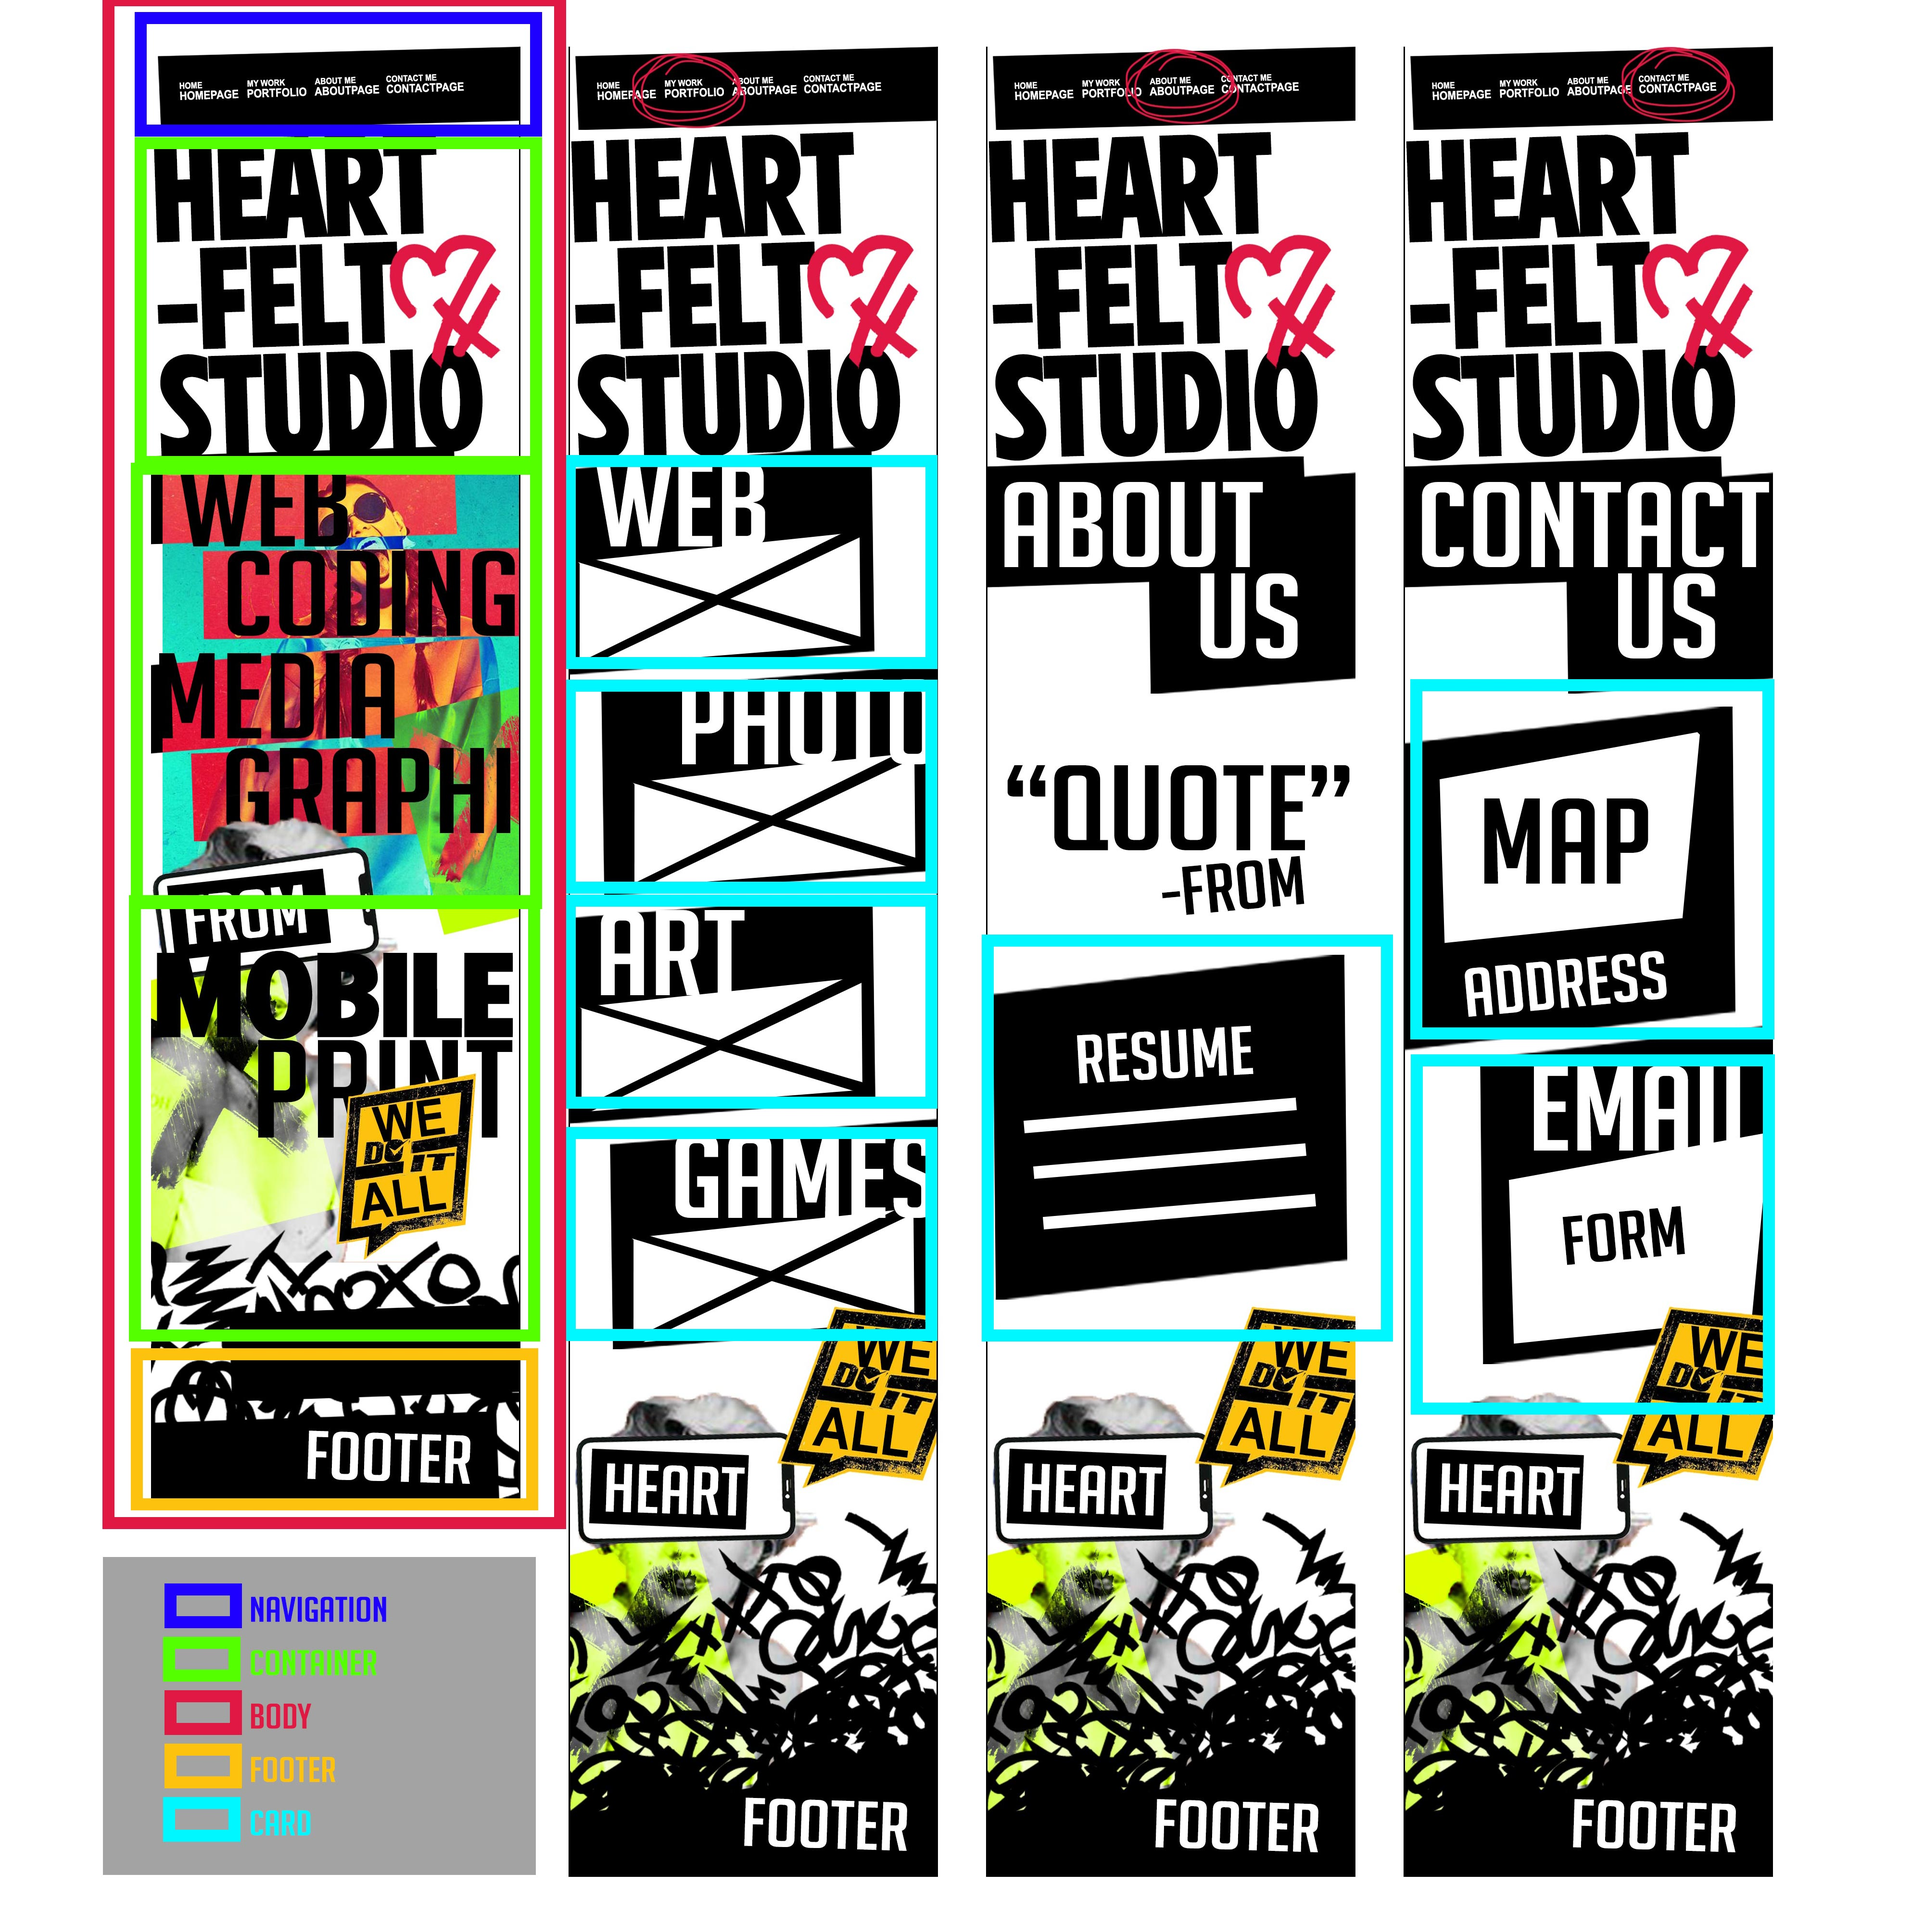
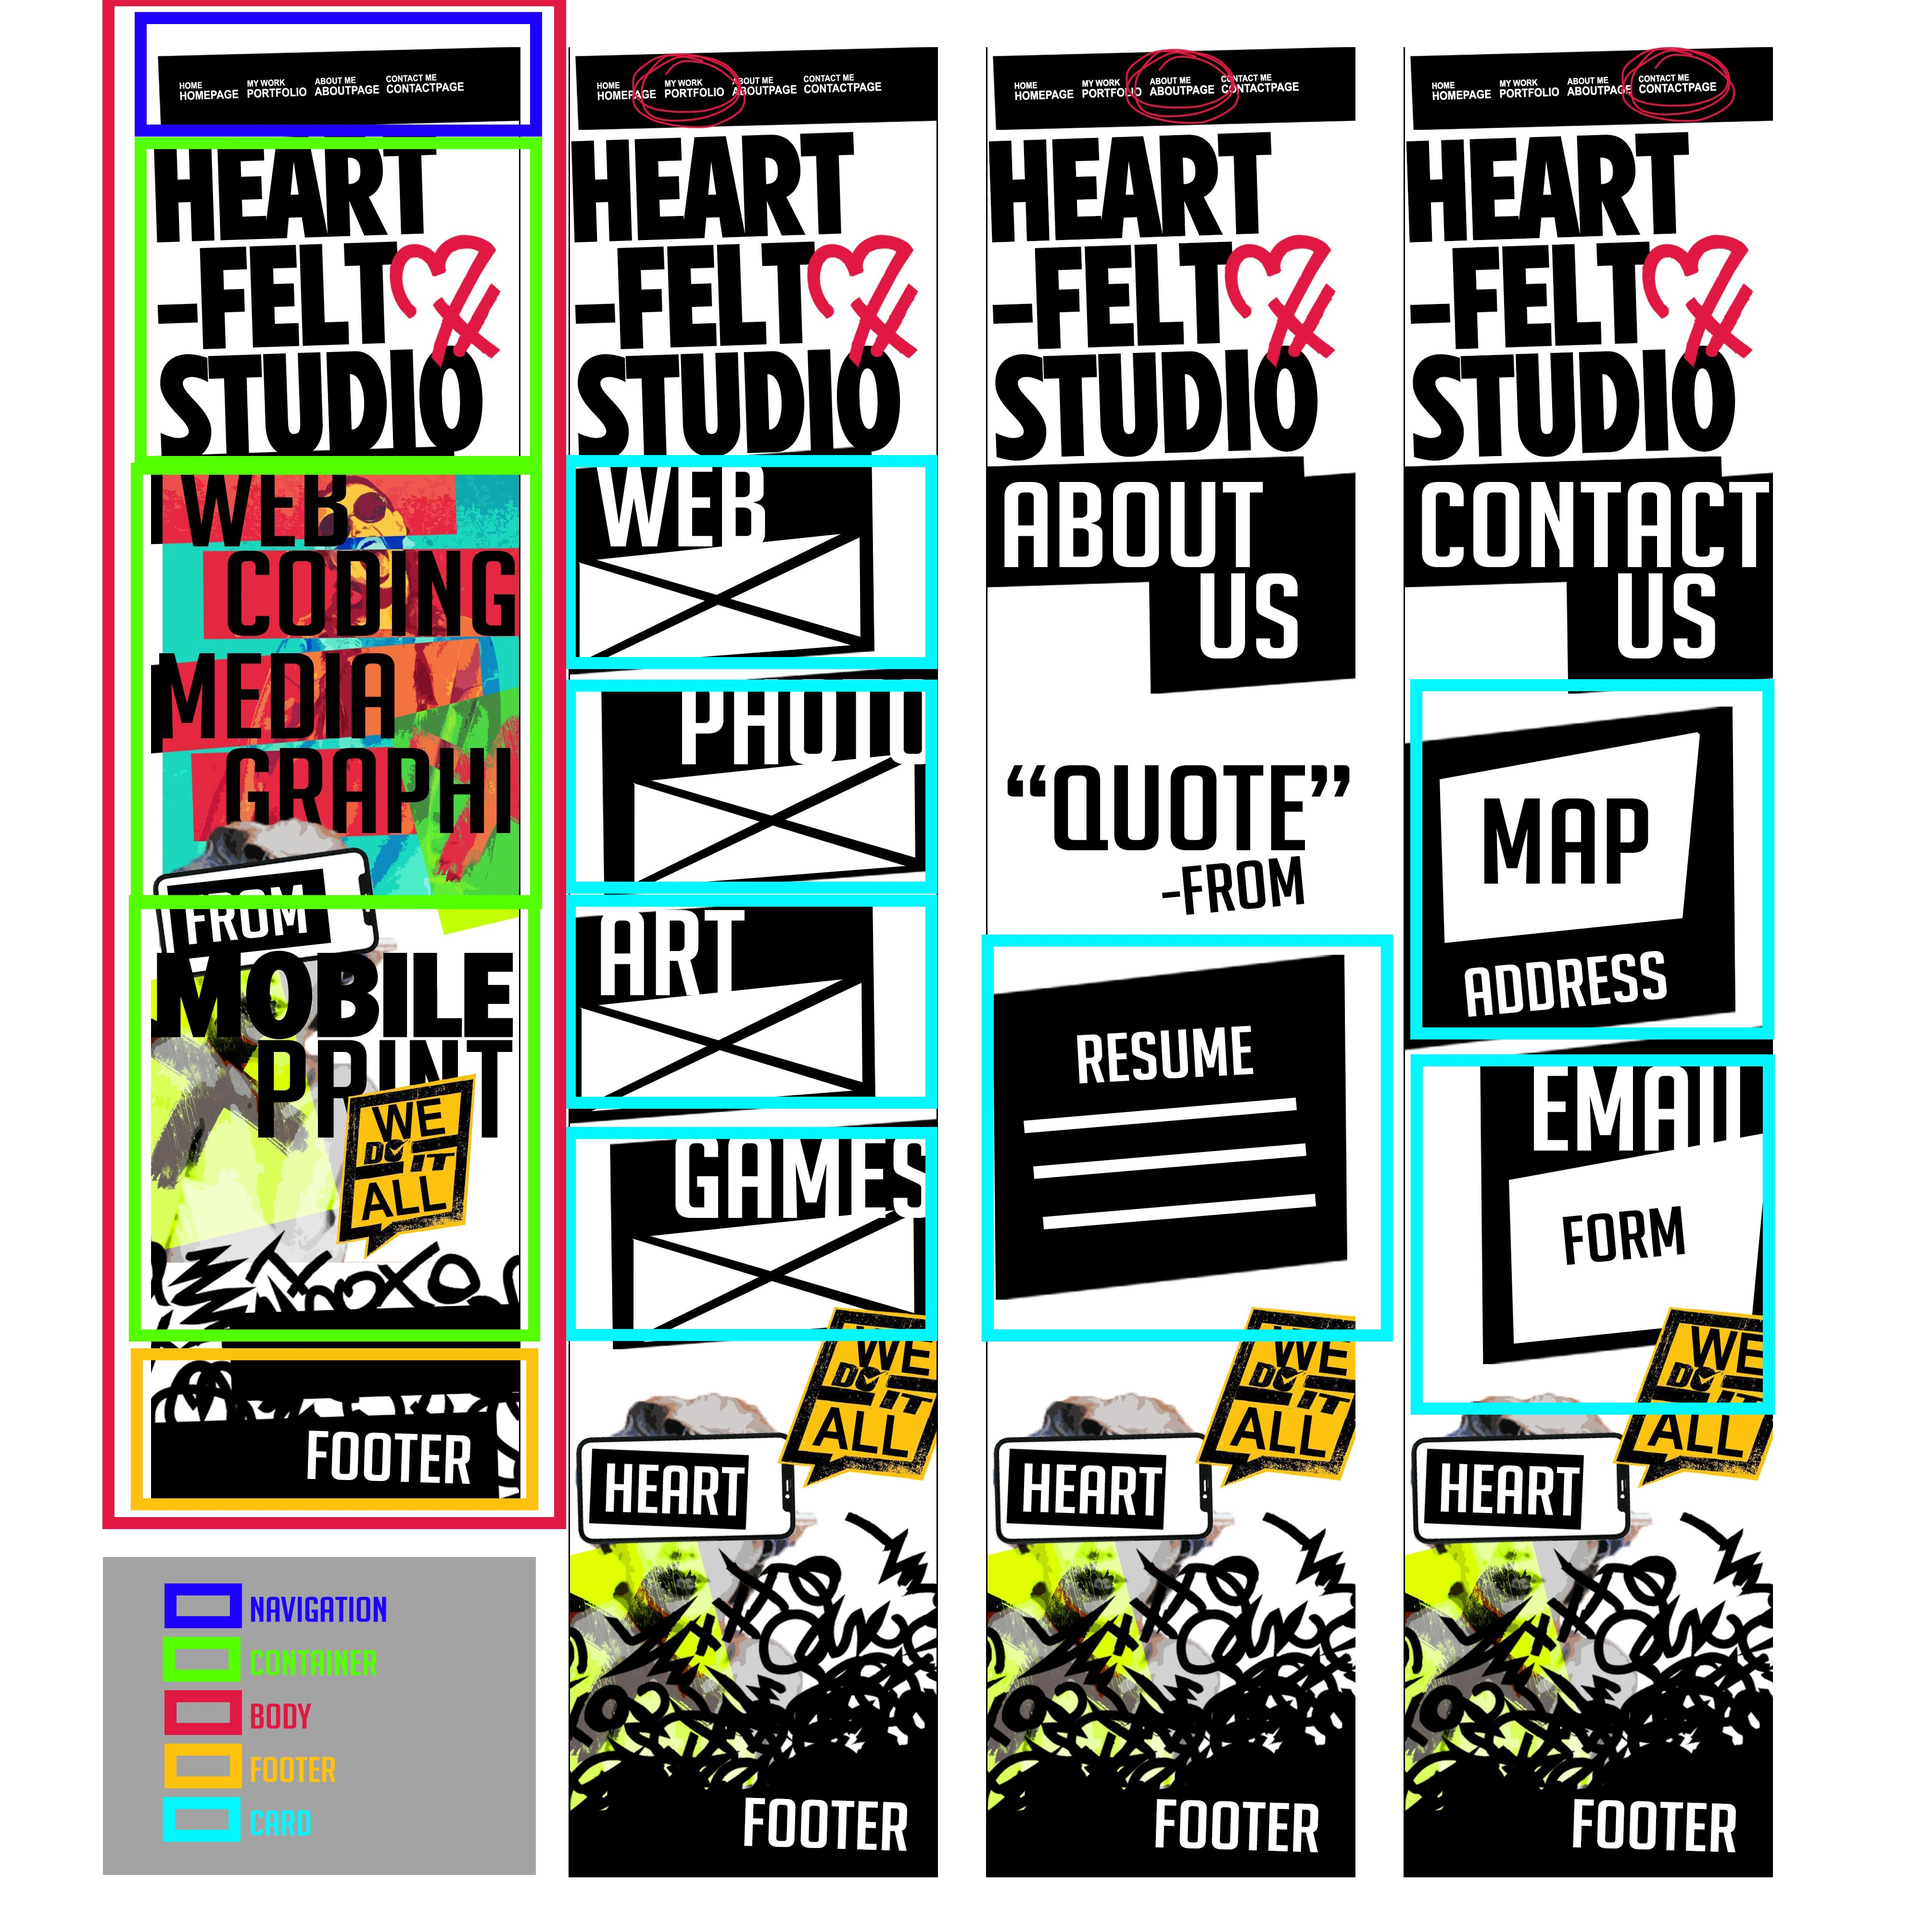
adds graphical elements

diff --git a/index.html b/index.html
@@ -73,22 +73,40 @@
                     <h1 class="service-graphix text-end display-1">GRAPHI</h1>
                 </div>
             </div>
+
+            <picture class="wrapper-maggy-img">
+                <source>
+                <img class="container-fluid" src="images/maggy-taunting-blue-sun.jpg" alt="Abstract Art of Maggy with sunglasses">
+            </picture>
+                
+            </div>
         </section>
         <!-- promotional section 2 -->
         <section class="container-poster mt-5 container-fluid" role="region">
-            <div class="wrapper-phone-img">
-                <img src="" alt="">
-            </div>
+            
+            <picture class="wrapper-phone-img">
+                <source>
+                <img src="images/iphone.png" alt="phone outline image">
+            </picture>
+
             <div class="poster-text">
                 <h1 class="text-end fs-1 fw-bold">MOBILE</h1>
                 <h1 class="text-end fs-1 fw-light">PRINT</h1>
             </div>
-            <div class="wrapper-x-img">
+
+            <picture class="wrapper-marilyn-img">
+                <source>
                 <img src="" alt="">
-            </div>
-            <div class="wrapper-doit">
-                <img src="" alt="">
-            </div>
+            </picture>
+            <picture class="wrapper-x-img">
+                <source>
+                <img src="images/x.jpg" alt="x shaped plattered paint">
+            </picture>
+            <picture class="wrapper-doit-img">
+                <source>
+                <img src="images/doit.jpg" alt="we can do it publicity bubble">
+            </picture>
+
         </section>
     </main>
     
@@ -98,10 +116,10 @@
         <!-- Add Schema improving the way search engines read and represent your page -->
         <div><p itemscope="address" itemtype="https://schema.org/PostalAddress">
             <span>We are located at:</span><br>
-            <span itemprop="streetAddress">333 Dalhousie St,</span><br>
+            <span itemprop="streetAddress">1385 Woodroffe Ave,</span><br>
             <span itemprop="addressLocality">Ottawa, </span>ON<br>
             <span itemprop="addressCountry">Canada</span>
-            <span intemprop="postalCode">K1N 7G1</span><br> &copy; HEARTFELT STUDIO A FRANKHEART COMPANY </p></div>
+            <span intemprop="postalCode">K2G 1V8</span><br> &copy; HEARTFELT STUDIO A FRANKHEART COMPANY </p></div>
         
         <div class="social-link">
             <a href="https://www.facebook.com/"><i class="fa-brands fa-square-facebook" role="link" aria-label="facebook link"></i></a>
@@ -113,6 +131,12 @@
             <a href="https://www.pinterest.ca/"><i class="fa fa-pinterest-square" role="link" aria-label="pinterest link"></i></a>
             <a href="https://www.flickr.com/"><i class="fa fa-flickr" role="link" aria-label="flickr link"></i></a>
         </div>
+
+        <picture class="wrapper-footer-background">
+            <source>
+            <img src="images/heartfelt-background-pattern.png" alt="background patterned image">
+        </picture>
+
     </footer>
 
     <!-- Bootstrap JS -->

diff --git a/css/main.css b/css/main.css
@@ -55,9 +55,13 @@ html {
 .title-bar-web, .title-bar-media {
     transform-origin: left bottom;
     transform: skewY(-3deg);
+
+    background-image: url("/images/maggy-taunting-red-sun.jpg");
 }
 
 .title-bar-code, .title-bar-graph {
     transform-origin: left bottom;
     transform: skewY(3deg);
+    
+    background-image: url("/images/maggy-taunting-red-sun.jpg");
 }
